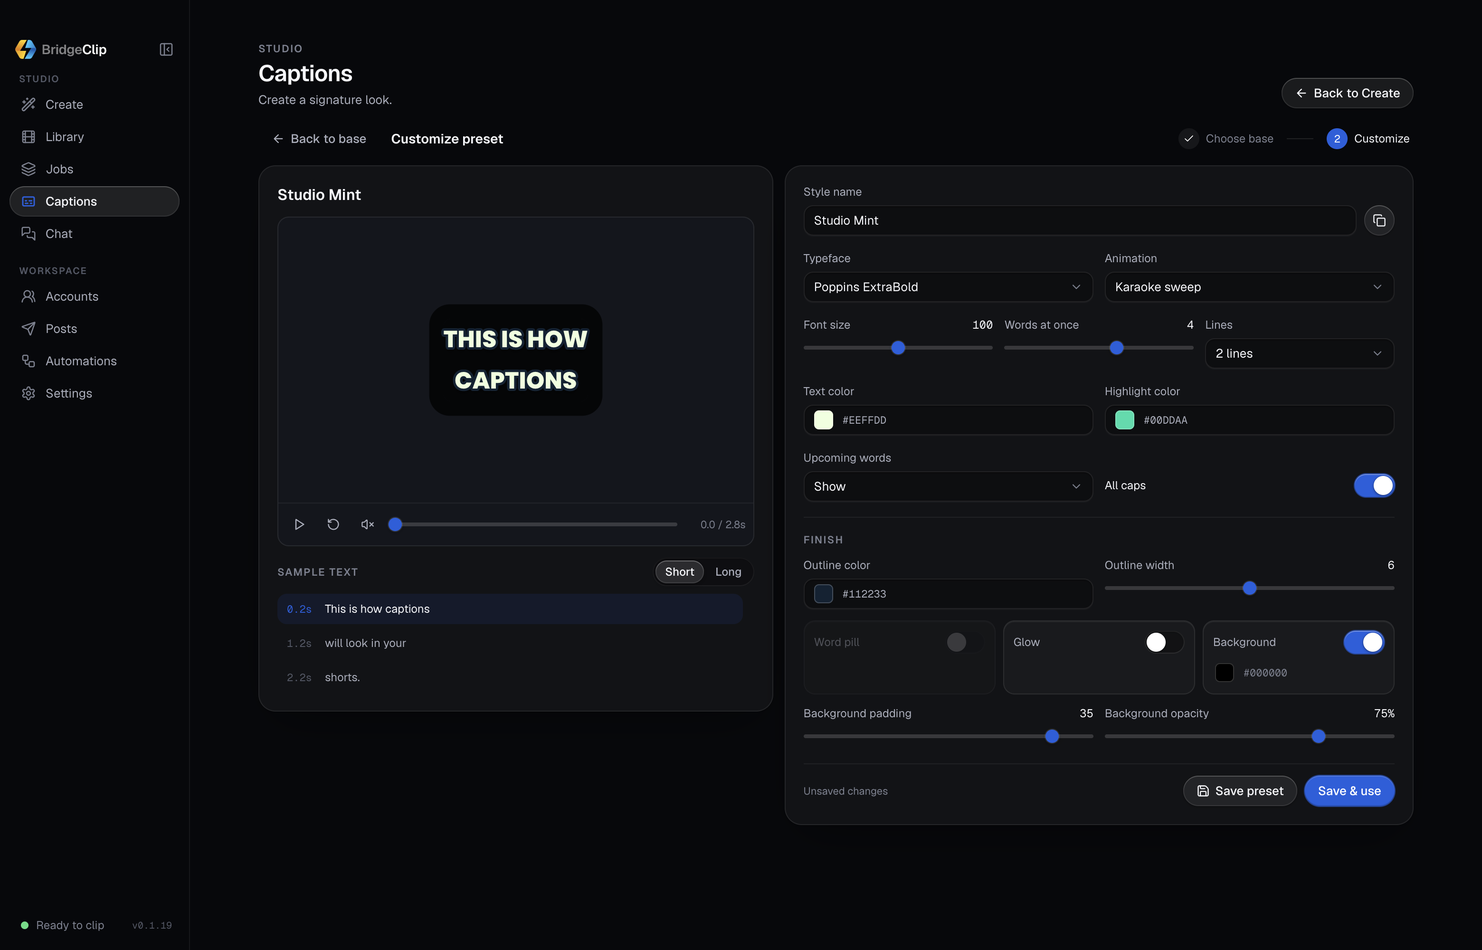
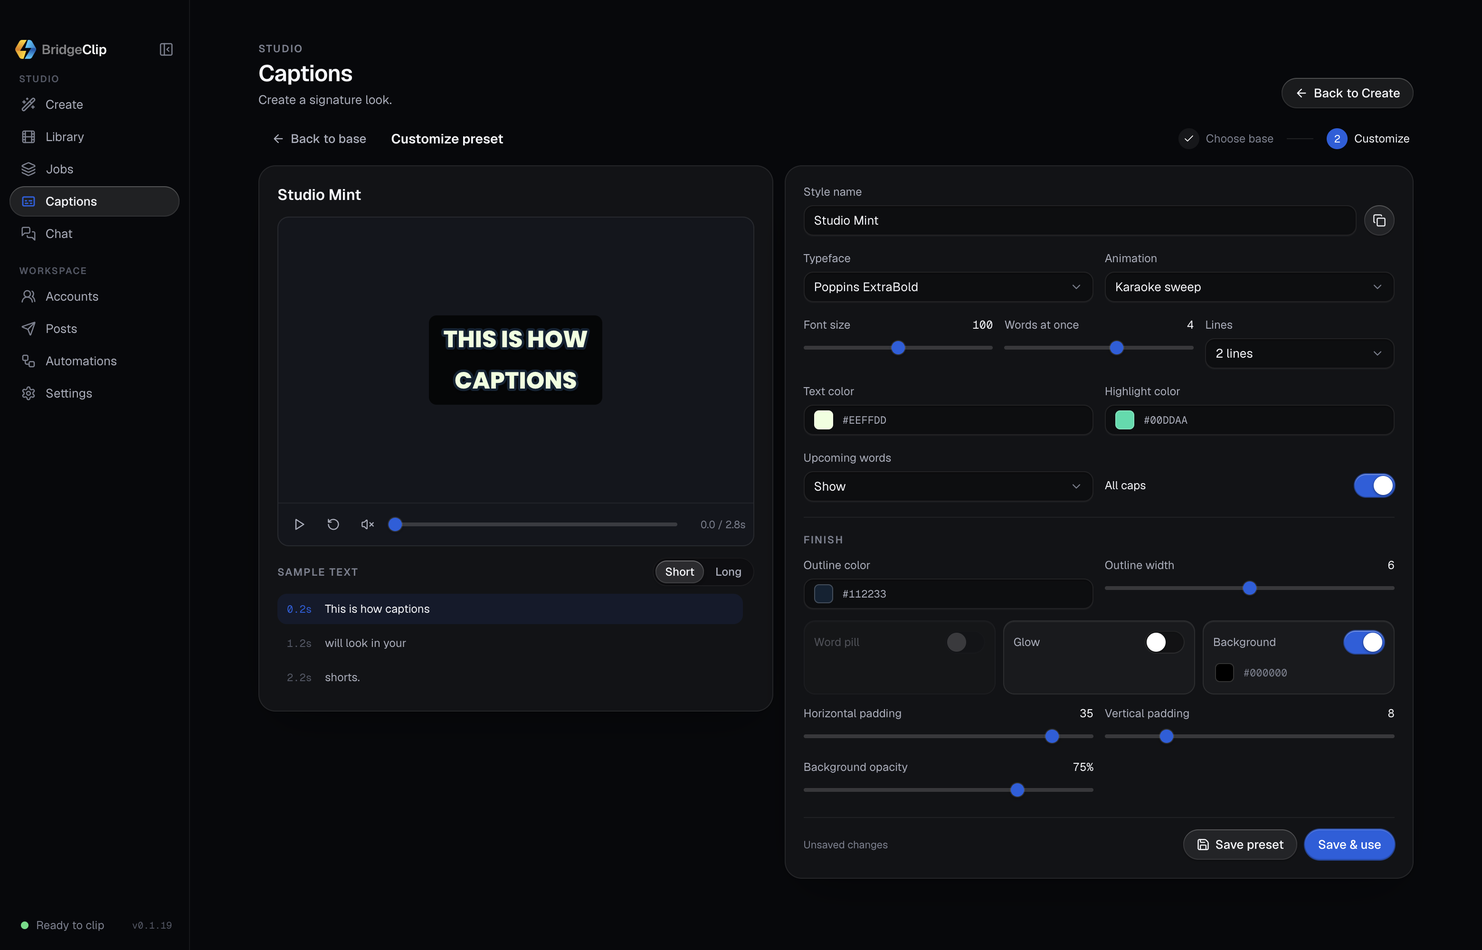
feat(captions): control horizontal and vertical background padding

diff --git a/src/renderer/components/CaptionPresetPicker.tsx b/src/renderer/components/CaptionPresetPicker.tsx
@@ -12,6 +12,7 @@ import captionLongDemoAudio from '../assets/audio/captions-demo-longer.mp3'
 import { onRadioKeyDown, Segmented } from './ui/Segmented'
 import { cn } from '../lib/utils'
 import { Button } from './ui/Button'
+import './caption-background.css'
 
 /**
  * Mirrors the caption presets in engine/clip_engine/config.py closely
@@ -41,7 +42,8 @@ export interface CaptionPreset {
   glow?: string
   /** Translucent plate behind the whole line. */
   plate?: string
-  platePadding?: number
+  platePaddingX?: number
+  platePaddingY?: number
   karaoke?: boolean
   /** How unspoken words look. */
   future?: 'show' | 'dim' | 'hide'
@@ -291,7 +293,7 @@ export function captionPreviewPreset(id: string, custom?: CustomCaptionPreset): 
     stroke: s.outline_width, uppercase: s.uppercase, maxWords: s.max_words_per_line, maxLines: s.max_lines,
     entrancePop: s.entrance_pop, karaoke: s.karaoke_fill, colorTransition: s.color_transition,
     future: s.future_words, dimOpacity: s.dim_opacity, pill: s.highlight_box_color ?? undefined,
-    glow: s.glow_color ?? undefined, platePadding: s.line_box_padding,
+    glow: s.glow_color ?? undefined, platePaddingX: s.line_box_padding_x ?? s.line_box_padding, platePaddingY: s.line_box_padding_y ?? s.line_box_padding,
     words: s.max_words_per_line === 1 ? ['', 'yours', ''] : s.max_words_per_line === 2 ? ['make', 'yours', ''] : ['make', 'it', 'yours'],
     plate: s.line_box_color ? `rgb(${parseInt(s.line_box_color.slice(1, 3), 16)} ${parseInt(s.line_box_color.slice(3, 5), 16)} ${parseInt(s.line_box_color.slice(5, 7), 16)} / ${s.line_box_opacity})` : undefined }
 }
@@ -311,6 +313,13 @@ export function textShadow(p: CaptionPreset, scale = SAMPLE_SCALE): string {
   if (p.shadow === 'hard') layers.push(`0 ${(w + 2.5).toFixed(2)}px 0 rgb(0 0 0 / 0.9)`)
   if (p.shadow === 'halo') layers.push('0 1px 6px rgb(0 0 0 / 0.85)', '0 0 3px rgb(0 0 0 / 0.6)')
   return layers.join(', ') || 'none'
+}
+
+/** Grow the backing without moving words or changing line wrapping. */
+export function captionBackgroundStyle(preset: CaptionPreset, scale: number): CSSProperties {
+  return { '--caption-background': preset.plate ?? 'transparent',
+    '--caption-padding-x': `${(preset.platePaddingX ?? 22) * scale}px`,
+    '--caption-padding-y': `${(preset.platePaddingY ?? 22) * scale}px` } as CSSProperties
 }
 
 export function CaptionSample({ preset }: { preset: CaptionPreset }): React.JSX.Element {
@@ -366,7 +375,7 @@ export function CaptionSample({ preset }: { preset: CaptionPreset }): React.JSX.
   return (
     <span className="relative block text-center leading-[1.1]" style={base}>
       {preset.plate ? (
-        <span className="inline-block rounded" style={{ background: preset.plate, boxShadow: `0 0 0 ${(preset.platePadding ?? 22) * preset.size / (preset.exportSize ?? 84)}px ${preset.plate}` }}>
+        <span className="caption-background inline-block rounded" style={captionBackgroundStyle(preset, preset.size / (preset.exportSize ?? 84))}>
           {line}
         </span>
       ) : (
@@ -620,9 +629,9 @@ export function CaptionMotionPreview({ preset, disabled, labControls = false }: 
       {labControls && playbackError && <p role="status" className="px-3 pt-3 text-xs text-danger">Couldn’t play audio. Try replaying.</p>}
       <div ref={stageRef} aria-hidden="true" className="caption-preview-stage flex h-32 items-center justify-center overflow-hidden px-4">
         <div className="text-center leading-snug" style={base}>
-          {preset.maxLines == null ? <span className="inline-flex max-w-full flex-wrap justify-center gap-x-[0.3em] rounded-md" style={{ background: preset.plate, boxShadow: preset.plate ? `0 0 0 ${(preset.platePadding ?? 22) * frameScale}px ${preset.plate}` : undefined }}>
+          {preset.maxLines == null ? <span className="caption-background inline-flex max-w-full flex-wrap justify-center gap-x-[0.3em] rounded-md" style={captionBackgroundStyle(preset, frameScale)}>
             {words.map((_, offset) => renderWord(groupStart + offset))}
-          </span> : <span className="inline-flex max-w-full flex-col items-center rounded-md" style={{ background: preset.plate, boxShadow: preset.plate ? `0 0 0 ${(preset.platePadding ?? 22) * frameScale}px ${preset.plate}` : undefined }}>
+          </span> : <span className="caption-background inline-flex max-w-full flex-col items-center rounded-md" style={captionBackgroundStyle(preset, frameScale)}>
             {group.lines.map(line => <span key={line.start} data-caption-line className="inline-flex flex-nowrap justify-center whitespace-nowrap" style={{ gap: layout.gap * frameScale, fontSize: line.scale < 1 ? fontSize * frameScale * line.scale : undefined, letterSpacing: line.scale < 1 ? (preset.letterSpacing ?? 0) * frameScale * line.scale : undefined }}>
               {demoWords.slice(line.start, line.end).map((_, offset) => renderWord(line.start + offset))}
             </span>)}

diff --git a/src/renderer/pages/CaptionsPage.tsx b/src/renderer/pages/CaptionsPage.tsx
@@ -213,7 +213,7 @@ export function CaptionsPage({ onNavigate }: { onNavigate: (page: PageId) => voi
             {editing.style.future_words === 'dim' && <LabRange label="Upcoming opacity" min={0} max={100} value={Math.round(editing.style.dim_opacity * 100)} suffix="%" onChange={value => update({ dim_opacity: value / 100 })} />}
             <div className="border-t border-white/[0.06] pt-4"><p className="eyebrow mb-3">Finish</p><div className="grid grid-cols-2 gap-3"><ColorField label="Outline color" value={editing.style.outline_color} onChange={outline_color => update({ outline_color })} /><LabRange label="Outline width" min={0} max={12} value={editing.style.outline_width} onChange={outline_width => update({ outline_width })} /></div>
               <div className="caption-lab-effects mt-3"><EffectColor label="Word pill" value={editing.style.highlight_box_color} disabled={editing.style.karaoke_fill} fallback="#7C5CFF" onChange={highlight_box_color => update({ highlight_box_color })} /><EffectColor label="Glow" value={editing.style.glow_color} fallback="#38CCFF" onChange={glow_color => update({ glow_color })} /><EffectColor label="Background" value={editing.style.line_box_color} fallback="#000000" onChange={line_box_color => update({ line_box_color })} /></div>
-              {editing.style.line_box_color && <div className="mt-3 grid grid-cols-2 gap-3"><LabRange label="Background padding" min={0} max={40} value={editing.style.line_box_padding} onChange={line_box_padding => update({ line_box_padding })} /><LabRange label="Background opacity" min={0} max={100} value={Math.round(editing.style.line_box_opacity * 100)} suffix="%" onChange={value => update({ line_box_opacity: value / 100 })} /></div>}
+              {editing.style.line_box_color && <div className="mt-3 grid grid-cols-2 gap-3"><LabRange label="Horizontal padding" min={0} max={40} value={editing.style.line_box_padding_x ?? editing.style.line_box_padding} onChange={line_box_padding_x => update({ line_box_padding_x })} /><LabRange label="Vertical padding" min={0} max={40} value={editing.style.line_box_padding_y ?? editing.style.line_box_padding} onChange={line_box_padding_y => update({ line_box_padding_y })} /><LabRange label="Background opacity" min={0} max={100} value={Math.round(editing.style.line_box_opacity * 100)} suffix="%" onChange={value => update({ line_box_opacity: value / 100 })} /></div>}
             </div>
           </fieldset>
           <div className="caption-lab-save mt-4 flex flex-wrap items-center gap-2 border-t border-white/[0.06] pt-3">

diff --git a/src/shared/custom-captions.ts b/src/shared/custom-captions.ts
@@ -40,6 +40,9 @@ export interface CaptionStyleSettings {
   glow_blur: number
   glow_active_only: boolean
   line_box_padding: number
+  /** Per-axis overrides; absent values preserve the saved uniform padding. */
+  line_box_padding_x?: number
+  line_box_padding_y?: number
 }
 
 /** Embedded in jobs and editor projects so later library edits never change an existing clip. */
@@ -74,6 +77,9 @@ export function parseCustomCaption(value: unknown): CustomCaptionPreset {
     if (!Number.isInteger(s[key]) || s[key] < low || s[key] > high) fail()
   }
   if (s.max_lines !== null && (!Number.isInteger(s.max_lines) || s.max_lines < 1 || s.max_lines > 3)) fail()
+  for (const key of ['line_box_padding_x', 'line_box_padding_y'] as const) {
+    if (Object.hasOwn(s, key) && (typeof s[key] !== 'number' || !Number.isInteger(s[key]) || s[key]! < 0 || s[key]! > 40)) fail()
+  }
   for (const key of ['dim_opacity', 'line_box_opacity', 'shadow_opacity', 'glow_opacity'] as const) {
     if (typeof s[key] !== 'number' || !Number.isFinite(s[key]) || s[key] < 0 || s[key] > 1) fail()
   }
@@ -90,7 +96,7 @@ export function parseCustomCaption(value: unknown): CustomCaptionPreset {
     'primary_color', 'highlight_color', 'outline_color', 'outline_width', 'future_words', 'dim_opacity', 'entrance_pop',
     'karaoke_fill', 'color_transition', 'highlight_box_color', 'glow_color', 'line_box_color', 'line_box_opacity',
     'bold', 'letter_spacing', 'position', 'alignment', 'word_by_word_highlight', 'shadow_color', 'shadow_opacity',
-    'shadow_blur', 'shadow_offset', 'shadow_spread', 'highlight_box_padding', 'glow_opacity', 'glow_radius', 'glow_blur', 'glow_active_only', 'line_box_padding']
+    'shadow_blur', 'shadow_offset', 'shadow_spread', 'highlight_box_padding', 'glow_opacity', 'glow_radius', 'glow_blur', 'glow_active_only', 'line_box_padding', 'line_box_padding_x', 'line_box_padding_y']
   if (Object.keys(s).some(key => !keys.includes(key as keyof CaptionStyleSettings))) fail()
-  return { id: v.id, name: v.name.trim(), baseId: v.baseId, style: Object.fromEntries(keys.map(key => [key, s[key]])) as unknown as CaptionStyleSettings }
+  return { id: v.id, name: v.name.trim(), baseId: v.baseId, style: Object.fromEntries(keys.filter(key => Object.hasOwn(s, key)).map(key => [key, s[key]])) as unknown as CaptionStyleSettings }
 }

diff --git a/src/renderer/components/EditorCaptionPreview.tsx b/src/renderer/components/EditorCaptionPreview.tsx
@@ -1,7 +1,7 @@
 import { useEffect, useRef, useState, type RefObject } from 'react'
 import type { CandidateEdit, EditorProject } from '../../shared/clip-editor'
 import { captionAnchor } from '../lib/caption-preview'
-import { captionPreviewPreset, textShadow } from './CaptionPresetPicker'
+import { captionBackgroundStyle, captionPreviewPreset, textShadow } from './CaptionPresetPicker'
 
 // Preset sizes in the export's 1080×1920 coordinate system. Browser font metrics
 // differ from libass; this is a placement guide, not a pixel-exact render.
@@ -59,7 +59,7 @@ export function EditorCaptionPreview({ canvas, project, candidate, time, disable
         const center = anchor.y - (anchor.bottom ? e.currentTarget.getBoundingClientRect().height / bounds.height / 2 : 0)
         onMove(Math.max(.1, Math.min(.9, center + direction * (e.shiftKey ? .05 : .01))), true)
       }}>
-      <span className="editor-caption-words" style={{ background: preset.plate, boxShadow: preset.plate ? `0 0 0 ${(preset.platePadding ?? 22) * size / (preset.exportSize ?? 84)}px ${preset.plate}` : undefined }}>
+      <span className="editor-caption-words caption-background" style={captionBackgroundStyle(preset, size / (preset.exportSize ?? 84))}>
         {['Captions', 'go', 'here'].map((word, i) => <span key={i} style={{ color: i === 1 ? preset.highlight : preset.primary,
           background: i === 1 ? preset.pill : undefined,
           padding: preset.pill ? '0 .15em' : undefined, borderRadius: '.15em',

diff --git a/src/renderer/components/caption-background.css b/src/renderer/components/caption-background.css
@@ -1,0 +1,11 @@
+/* Independent padding without changing text layout, timing, or line breaks. */
+.caption-background { position: relative; isolation: isolate; }
+.caption-background::before {
+  content: '';
+  position: absolute;
+  inset: calc(-1 * var(--caption-padding-y)) calc(-1 * var(--caption-padding-x));
+  z-index: -1;
+  pointer-events: none;
+  border-radius: inherit;
+  background: var(--caption-background);
+}

diff --git a/engine/tests/test_custom_captions.py b/engine/tests/test_custom_captions.py
@@ -27,8 +27,9 @@ def custom():
 
 def test_lab_starting_values_match_every_engine_preset():
     for name, fields in DEFAULTS.items():
-        assert set(fields) == set(CaptionStyle.__annotations__) - {'emphasis_color'}
+        assert set(fields) == set(CaptionStyle.__annotations__) - {'emphasis_color', 'line_box_padding_x', 'line_box_padding_y'}
         base = get_caption_preset(name)
+        assert base.line_box_padding_x is None and base.line_box_padding_y is None
         for key, value in fields.items():
             assert getattr(base, key) == value, (name, key)
 
@@ -84,6 +85,69 @@ def test_legacy_custom_captions_normalize_to_automatic_lines():
     for limit in (None, 1, 2, 3):
         snapshot['style']['max_lines'] = limit
         assert validate_custom_caption(snapshot)['style']['max_lines'] == limit
+
+
+@pytest.mark.parametrize('axis', ['line_box_padding_x', 'line_box_padding_y'])
+@pytest.mark.parametrize('value', [None, False, -1, 41, 1.5, '10'])
+def test_invalid_background_padding_is_rejected(axis, value):
+    snapshot = custom()
+    snapshot['style'][axis] = value
+    with pytest.raises(ValueError):
+        validate_custom_caption(snapshot)
+
+
+def test_background_padding_preserves_legacy_exports_and_scales_each_axis(tmp_path):
+    from clip_engine.services.rendering_service import RenderingService
+
+    snapshot = custom()
+    snapshot['style'].update(line_box_color='#00FF00', line_box_padding=31, outline_width=0, shadow_opacity=0, entrance_pop=False)
+    service = CaptionGeneratorService()
+    legacy = resolve_caption_style('pop', snapshot)
+    equal = resolve_caption_style('pop', {**snapshot, 'style': {**snapshot['style'], 'line_box_padding_x': 31, 'line_box_padding_y': 31}})
+    assert service._plate_tags(None, legacy) == service._plate_tags(None, equal)
+    assert service._block_size(['Hello'], legacy, 1080) == service._block_size(['Hello'], equal, 1080)
+    snapshot['style'].update(line_box_padding_x=40, line_box_padding_y=0)
+    style = resolve_caption_style('pop', snapshot)
+    assert r'\xbord40\ybord0' in service._plate_tags(None, style)
+    size = service._block_size(['Hello'], style, 1080)
+    style.line_box_padding_y = 20
+    taller = service._block_size(['Hello'], style, 1080)
+    assert taller[0] == size[0] and taller[1] == size[1] + 40
+    style.line_box_padding_x = 10
+    narrower = service._block_size(['Hello'], style, 1080)
+    assert narrower[0] == taller[0] - 60 and narrower[1] == taller[1]
+    scaled = RenderingService._landscape_caption_style(style, 1080)
+    assert (scaled.line_box_padding_x, scaled.line_box_padding_y) == (6, 13)
+    assert (style.line_box_padding_x, style.line_box_padding_y) == (10, 20)
+
+
+def test_background_padding_changes_only_its_axis_in_baked_pixels(tmp_path):
+    import numpy as np
+    from PIL import Image
+
+    ffmpeg = str(ROOT / 'engine-bin/ffmpeg') if (ROOT / 'engine-bin/ffmpeg').exists() else shutil.which('ffmpeg')
+    if not ffmpeg:
+        pytest.skip('FFmpeg is needed for the background render check')
+    bounds = []
+    for x, y in [(10, 8), (35, 8), (35, 30)]:
+        snapshot = custom()
+        snapshot['style'].update(line_box_color='#00FF00', line_box_opacity=1, line_box_padding_x=x, line_box_padding_y=y,
+            primary_color='#FFFFFF', highlight_color='#FFFFFF', outline_width=0, shadow_opacity=0, entrance_pop=False)
+        ass = tmp_path / f'padding-{x}-{y}.ass'
+        asyncio.run(CaptionGeneratorService().generate_captions([TranscriptSegment(0, 1000, 'Hello')],
+            0, 1000, str(ass), caption_style=resolve_caption_style('pop', snapshot), output_width=600, output_height=1000))
+        frame = ass.with_suffix('.png')
+        subprocess.run([ffmpeg, '-v', 'error', '-f', 'lavfi', '-i', 'color=c=black:s=600x1000:r=1:d=1',
+            '-vf', f'ass={ass}:fontsdir={ROOT / "engine/assets/fonts"}', '-frames:v', '1', str(frame)],
+            capture_output=True, check=True, timeout=30)
+        pixels = np.asarray(Image.open(frame).convert('RGB'))
+        rows, columns = np.where((pixels[:, :, 1] > 100) & (pixels[:, :, 0] < 40) & (pixels[:, :, 2] < 40))
+        bounds.append((columns.min(), columns.max(), rows.min(), rows.max()))
+    normal, wide, tall = bounds
+    assert normal[2:] == wide[2:]
+    assert abs((wide[1] - wide[0]) - (normal[1] - normal[0]) - 50) <= 2
+    assert wide[:2] == tall[:2]
+    assert abs((tall[3] - tall[2]) - (wide[3] - wide[2]) - 44) <= 2
 
 
 @pytest.mark.parametrize('limit', [False, True, 0, -1, 4, 1.5, '2', [], {}])

diff --git a/engine/clip_engine/services/caption_generator.py b/engine/clip_engine/services/caption_generator.py
@@ -477,14 +477,15 @@ class CaptionGeneratorService:
         pad = max(
             style.outline_width,
             style.outline_width + style.shadow_spread + style.shadow_blur if style.shadow_opacity > 0 else 0,
-            style.line_box_padding + 1 if style.line_box_color else 0,
             style.glow_radius + style.glow_blur if style.glow_color else 0,
             style.highlight_box_padding + 1 if pill else 0,
         )
+        pad_x = max(pad, (style.line_box_padding_x if style.line_box_padding_x is not None else style.line_box_padding) + 1) if style.line_box_color else pad
+        pad_y = max(pad, (style.line_box_padding_y if style.line_box_padding_y is not None else style.line_box_padding) + 1) if style.line_box_color else pad
         shadow = style.shadow_offset if style.shadow_opacity > 0 else 0
         grow = 1.06 if style.entrance_pop else 1.0
-        half = max(pad - top, bottom + pad + shadow) * grow
-        return round((min(max(widths), wrap_w) + 2 * pad) * grow), round(2 * half)
+        half = max(pad_y - top, bottom + pad_y + shadow) * grow
+        return round((min(max(widths), wrap_w) + 2 * pad_x) * grow), round(2 * half)
 
     @staticmethod
     def _parse_ass_time(value: str) -> int:
@@ -757,9 +758,12 @@ Format: Name, Fontname, Fontsize, PrimaryColour, SecondaryColour, OutlineColour,
     def _plate_tags(self, token: _Token, style: CaptionStyle) -> str:
         # Unspoken words keep their plate so the box never changes size.
         color = self._hex_to_ass(style.line_box_color)
+        pad_x = style.line_box_padding_x if style.line_box_padding_x is not None else style.line_box_padding
+        pad_y = style.line_box_padding_y if style.line_box_padding_y is not None else style.line_box_padding
+        border = f"\\bord{pad_x}" if pad_x == pad_y else f"\\xbord{pad_x}\\ybord{pad_y}"
         return (
             f"\\1a&HFF&\\3a{self._alpha(style.line_box_opacity)}\\3c{color}"
-            f"\\bord{style.line_box_padding}\\shad0\\blur1"
+            f"{border}\\shad0\\blur1"
         )
 
     def _is_emphasis(self, word: str) -> bool:

diff --git a/engine/clip_engine/custom_captions.py b/engine/clip_engine/custom_captions.py
@@ -34,8 +34,11 @@ def validate_custom_caption(value, preset_id=None):
     if isinstance(style, dict) and base in LEGACY_RENDERING['presets']:
         style = {**LEGACY_RENDERING['common'], **LEGACY_RENDERING['presets'][base], **style}
     keys = set(INTEGERS) | PROBABILITIES | FLAGS | COLORS | OPTIONAL_COLORS | {'font_name', 'future_words', 'position', 'alignment'}
-    if not isinstance(style, dict) or set(style) - {'max_lines'} != keys:
+    if not isinstance(style, dict) or set(style) - {'max_lines', 'line_box_padding_x', 'line_box_padding_y'} != keys:
         fail()
+    for key in ('line_box_padding_x', 'line_box_padding_y'):
+        if key in style and (type(style[key]) is not int or not 0 <= style[key] <= 40):
+            fail()
     max_lines = style.get('max_lines')
     if max_lines is not None and (type(max_lines) is not int or not 1 <= max_lines <= 3):
         fail()

diff --git a/engine/clip_engine/services/rendering_service.py b/engine/clip_engine/services/rendering_service.py
@@ -844,7 +844,7 @@ class RenderingService:
     # Pixel-sized caption style fields, scaled together for landscape output.
     _CAPTION_PIXEL_FIELDS = (
         "font_size", "outline_width", "shadow_blur", "shadow_offset", "shadow_spread",
-        "highlight_box_padding", "glow_radius", "glow_blur", "line_box_padding", "letter_spacing",
+        "highlight_box_padding", "glow_radius", "glow_blur", "line_box_padding", "line_box_padding_x", "line_box_padding_y", "letter_spacing",
     )
 
     @classmethod

diff --git a/engine/clip_engine/config.py b/engine/clip_engine/config.py
@@ -217,6 +217,9 @@ class CaptionStyle:
     line_box_color: Optional[str] = None
     line_box_opacity: float = 0.6
     line_box_padding: int = 22
+    # Per-axis overrides; None preserves uniform padding in older snapshots.
+    line_box_padding_x: Optional[int] = None
+    line_box_padding_y: Optional[int] = None
 
     # Keyword emphasis: planner-chosen punch words render in this color
     # (None disables). Chosen per preset to contrast with the highlight.

diff --git a/docs/usage.md b/docs/usage.md
@@ -56,7 +56,7 @@ See [video speed](video-speed.md) for timing and export details.
 
 ### Make a caption style
 
-Open **Captions** in the sidebar or **Open captions lab** in Create’s Captions step. Your first preset starts with **Choose a base**: select a default, preview it, then choose **Customize**. Adjust its typeface, font size, text and highlight colors, word grouping, animation, outline, pill, glow or background. Enabling **Background** reveals padding and opacity controls, which also apply to exports. Under **Sample text**, switch between **Short** and **Long** voice samples. Select a line to jump to that part of the recording; the line list updates with your caption settings. Pause or scrub the preview to compare timing. Previews start muted. Use the speaker button to hear the sample; your sound and sample choices carry across styles while the app is open.
+Open **Captions** in the sidebar or **Open captions lab** in Create’s Captions step. Your first preset starts with **Choose a base**: select a default, preview it, then choose **Customize**. Adjust its typeface, font size, text and highlight colors, word grouping, animation, outline, pill, glow or background. Enabling **Background** reveals separate **Horizontal padding** and **Vertical padding** sliders, plus opacity. Both axes also apply to exports; existing presets start with their saved padding on each axis. Under **Sample text**, switch between **Short** and **Long** voice samples. Select a line to jump to that part of the recording; the line list updates with your caption settings. Pause or scrub the preview to compare timing. Previews start muted. Use the speaker button to hear the sample; your sound and sample choices carry across styles while the app is open.
 
 Give it a name and choose **Save preset** to save without leaving the editor. **Back to presets** opens your table with edit, duplicate and delete actions; future visits start there. **New preset** starts the base-selection wizard again. Leaving unsaved caption edits offers **Save & leave**, **Discard**, or **Keep editing**. Reloading or closing the app also asks whether to save. When opened from Create, **Save & use** returns to the same draft with the preset selected, or you can use one directly from the table. Default styles and **Your styles** are separate in caption pickers. Each job and editor clip keeps its own style snapshot, so later library edits and deletions do not change an existing clip. A custom style can also be selected in the editor before baking.
 

diff --git a/docs/screenshots/studio-polish/README.md b/docs/screenshots/studio-polish/README.md
@@ -14,7 +14,7 @@ The **before** images were captured from upstream `main` at `b996820`, except th
 | Library | ![Original Library cards](library-before.png) | ![Storage size on Library cards](library-after.png) |
 | Delete a Library item | ![Original deletion confirmation](delete-before.png) | ![Space estimate and visual deletion summary](delete-after.png) |
 | Settings → Content storage | ![Original storage total](storage-before.png) | ![Cleanup controls and source storage breakdown](storage-after.png) |
-| Captions editor | ![Earlier draft with repeated preview labels](captions-editor-before.png) | ![Simplified preview and background padding](captions-lab.png) |
+| Captions editor | ![Earlier draft with repeated preview labels](captions-editor-before.png) | ![Simplified preview and separate padding controls](captions-lab.png) |
 | Posts | ![Ten recent posts and Show all](posts-before.png) | ![Numbered pages with a shared page-size preference](posts-after.png) |
 
 ## Storage cleanup
@@ -29,7 +29,7 @@ Review & edit users also see retained source videos and editor previews. Select 
 
 ## Captions lab
 
-Choose a default as a starting point, then adjust your own preset with a live preview. Switch between short and long voice samples, or select a caption line to jump to it. This example shows two balanced lines and adjustable background padding.
+Choose a default as a starting point, then adjust your own preset with a live preview. Switch between short and long voice samples, or select a caption line to jump to it. This example shows two balanced lines with separate horizontal and vertical background padding.
 
 ![Editing a custom caption preset with two lines](captions-lab.png)
 
